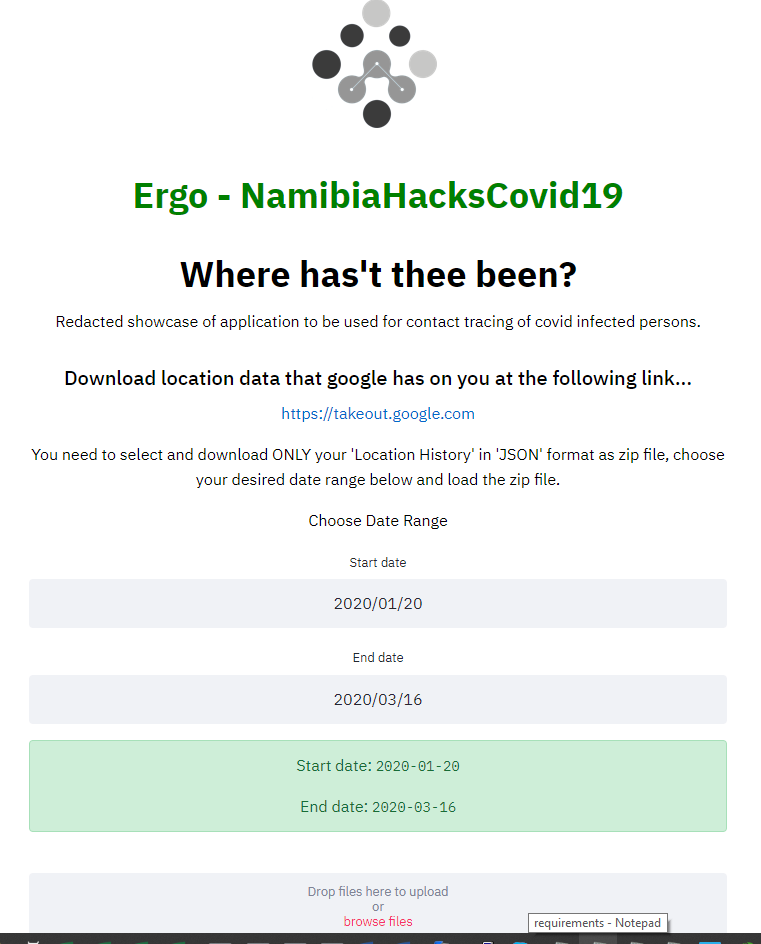
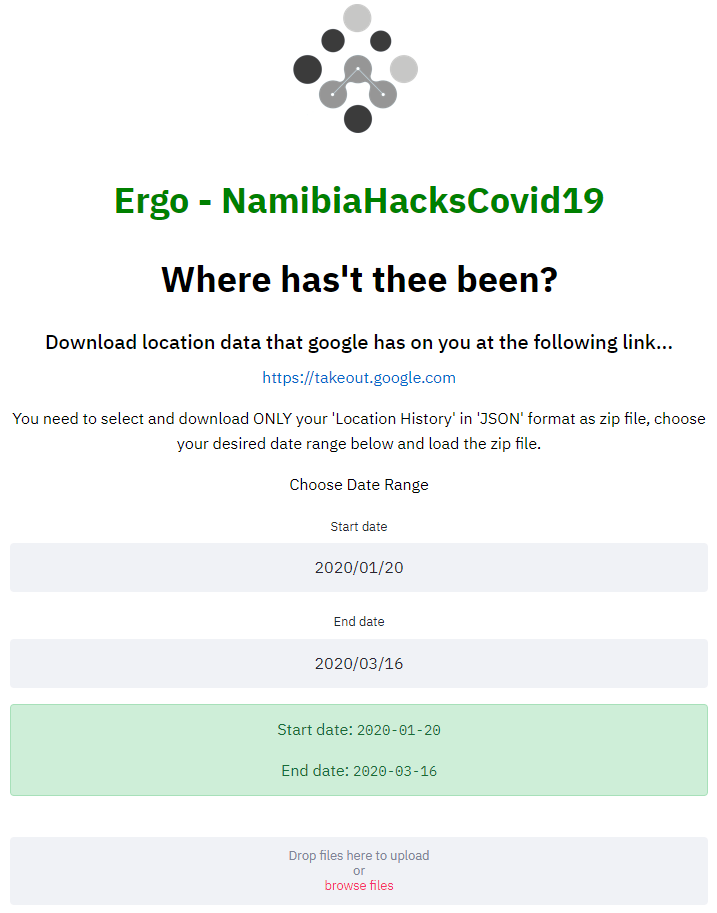
second commit

diff --git a/CTracer.py b/CTracer.py
@@ -36,8 +36,6 @@ st.markdown("<h1 style='text-align: center; color: green;'>Ergo - NamibiaHacksCo
 
 st.markdown("<h1 style='text-align: center; color: black;'>Where has't thee been?</h1>", unsafe_allow_html=True)
 
-st.markdown("<p style='text-align: center; color: black;'>Redacted showcase of application to be used for contact tracing of covid infected persons.</p>", unsafe_allow_html=True)
-
 st.markdown("<h3 style='text-align: center; color: black;'>Download location data that google has on you at the following link...</h3>", unsafe_allow_html=True)
 st.markdown("<div style='text-align:center'><p><a href='https://takeout.google.com/' >https://takeout.google.com </p></a></div>", unsafe_allow_html=True)
 st.markdown("<p style='text-align: center; color: black;'>You need to select and download ONLY your 'Location History' in 'JSON' format as zip file, choose your desired date range below and load the zip file.</p>", unsafe_allow_html=True)
